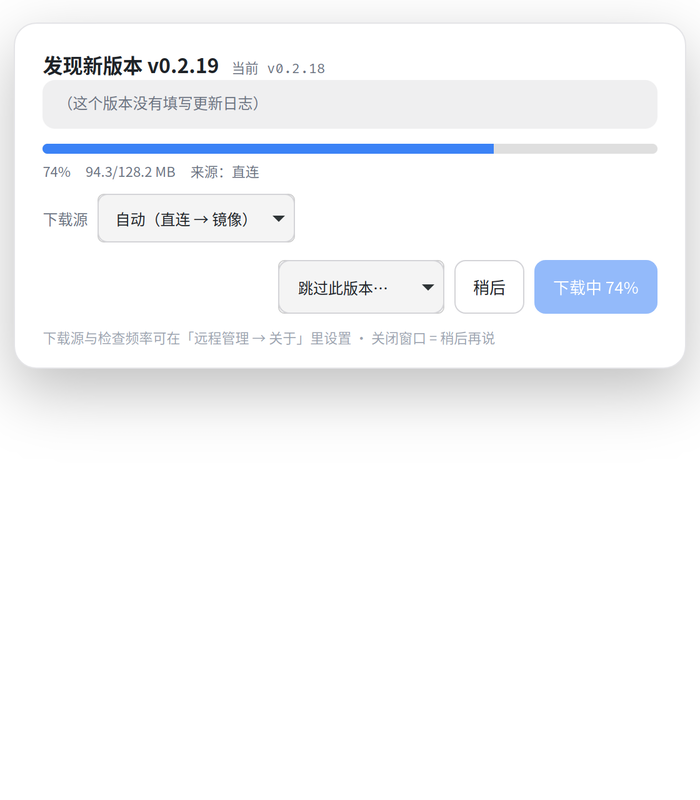
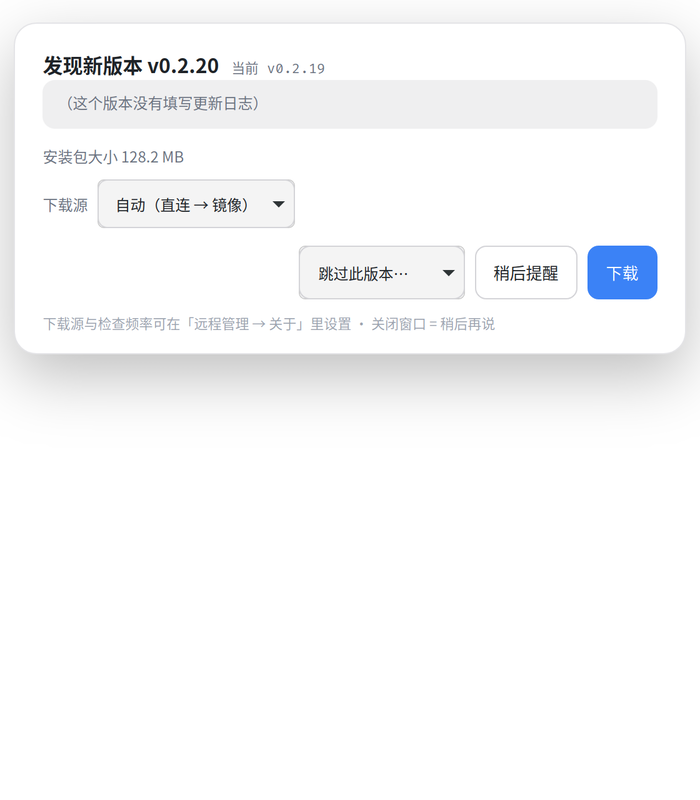
feat(update): 对齐主流更新体验
- 已是最新不再弹窗（update_open_window 增加状态闸；关于页内联显示状态）
- 「稍后提醒」（默认24h，只压自动检查）与「跳过此版本」（1/7/30天/永久）分离
- 弹窗显示安装包大小；新增「发现新版本时自动下载」开关（默认关）
- 自动检查尊重 remind_after；手动检查不受影响
- 版本 0.2.20 五处同步；截图 docs/screenshots/update-popup-pc-available.png

Changed region(s): [[0.03, 0.2812, 0.99, 0.4688], [0.06, 0.1562, 0.93, 0.3125], [0.27, 0.0625, 0.33, 0.0938]]

diff --git a/ui-vue/src/components/update/UpdateDialog.vue b/ui-vue/src/components/update/UpdateDialog.vue
@@ -58,6 +58,10 @@ const bytesText = computed(() => {
 const downloading = computed(() => phase.value === "downloading" || phase.value === "verifying");
 const canInstall = computed(() => phase.value === "ready_to_install" || phase.value === "installing");
 /** 有「新版本」语义的阶段（标题/日志/跳过/下载源只在这些阶段出现） */
+const assetMB = computed(() => {
+  const size = state.value?.total ?? 0;
+  return size ? `${(size / 1048576).toFixed(1)} MB` : "";
+});
 const hasRelease = computed(() =>
   ["available", "downloading", "verifying", "ready_to_install", "installing"].includes(phase.value),
 );
@@ -210,6 +214,7 @@ onMounted(async () => {
       <p v-else class="upd-notes empty">（这个版本没有填写更新日志）</p>
     </template>
 
+    <p v-if="phase === 'available' && assetMB" class="upd-size">安装包大小 <span class="mono">{{ assetMB }}</span></p>
     <div v-if="downloading || canInstall" class="upd-progress">
       <div class="bar"><span :style="{ width: percent + '%' }" /></div>
       <div class="nums">
@@ -257,7 +262,7 @@ onMounted(async () => {
           <option value="30">忽略 30 天</option>
           <option value="0">永久跳过此版本</option>
         </select>
-        <button type="button" class="ghost" @click="close">稍后</button>
+        <button type="button" class="ghost" @click="run('update_remind_later', { hours: 24 }).then(close)">稍后提醒</button>
         <button type="button" class="primary" :disabled="primaryDisabled" @click="onPrimary">
           {{ primaryLabel }}
         </button>
@@ -313,6 +318,7 @@ onMounted(async () => {
   padding: 10px 12px;
 }
 .upd-notes.empty { color: var(--dim, #6b7280); }
+.upd-size { margin: 0 0 10px; color: var(--dim, #6b7280); font-size: 12px; }
 .upd-progress { margin: 0 0 10px; }
 .upd-progress .bar { height: 8px; border-radius: 4px; background: rgba(127, 127, 127, 0.25); overflow: hidden; }
 .upd-progress .bar span { display: block; height: 100%; background: var(--accent, #3b82f6); transition: width 0.12s linear; }

diff --git a/ui-vue/src/pages/hub/AboutPage.vue b/ui-vue/src/pages/hub/AboutPage.vue
@@ -34,6 +34,7 @@ interface UpdateState {
   bytes?: string;
   /** 自动检查开关 */
   autoCheck?: boolean;
+  autoDownload?: boolean;
   /** 下载源 */
   mirror?: string;
   /** 自动检查间隔（小时） */
@@ -91,6 +92,8 @@ const LINK_ITEMS = [
 
 /** 自动检查开关（旧版 #update-auto-check） */
 const autoCheck = ref(true);
+/** 发现新版本时自动后台下载 */
+const autoDownload = ref(false);
 /** 下载源：auto / direct / ghfast / ghproxy / custom（自定义 https 前缀） */
 const KNOWN_MIRRORS = ["auto", "direct", "ghfast", "ghproxy"] as const;
 const mirror = ref<string>("auto");
@@ -118,6 +121,10 @@ watch(
 watch(autoCheck, (value) => {
   if (!optionsReady.value) return;
   void call("set_update_auto_check", { enabled: value }).catch((e) => (updateError.value = String(e)));
+});
+watch(autoDownload, (value) => {
+  if (!optionsReady.value) return;
+  void call("set_update_auto_download", { enabled: value }).catch((e) => (updateError.value = String(e)));
 });
 watch(mirror, (value) => {
   if (!optionsReady.value) return;
@@ -172,6 +179,7 @@ onMounted(async () => {
   try {
     update.value = await call<UpdateState>("update_state");
     autoCheck.value = update.value?.autoCheck ?? true;
+    autoDownload.value = update.value?.autoDownload ?? false;
     const loadedMirror = String(update.value?.mirror ?? "auto");
     if ((KNOWN_MIRRORS as readonly string[]).includes(loadedMirror)) {
       mirror.value = loadedMirror;

diff --git a/ui-vue/src/i18n/messages/ru-RU.ts b/ui-vue/src/i18n/messages/ru-RU.ts
@@ -928,6 +928,7 @@ about: {
   installRestart: "Установить и перезапустить",
   skip: "Пропустить эту версию",
   autoCheck: "Автопроверка (через 30 с после запуска + каждые 12 ч)",
+  autoDownload: "Автозагрузка новых версий",
   checkEvery: "Частота проверки",
   downloadSrc: "Источник загрузки",
   srcCustom: "Свой…",

diff --git a/ui-vue/src/i18n/messages/ja-JP.ts b/ui-vue/src/i18n/messages/ja-JP.ts
@@ -928,6 +928,7 @@ about: {
   installRestart: "インストールして再起動",
   skip: "このバージョンをスキップ",
   autoCheck: "自動確認（起動 30 秒後 + 12 時間ごと）",
+  autoDownload: "新バージョンを自動ダウンロード",
   checkEvery: "確認頻度",
   downloadSrc: "ダウンロード元",
   srcCustom: "カスタム…",

diff --git a/ui-vue/src/i18n/messages/es-ES.ts b/ui-vue/src/i18n/messages/es-ES.ts
@@ -928,6 +928,7 @@ about: {
   installRestart: "Instalar y reiniciar",
   skip: "Omitir esta versión",
   autoCheck: "Comprobación automática (30 s tras iniciar + cada 12 h)",
+  autoDownload: "Descargar nuevas versiones automáticamente",
   checkEvery: "Frecuencia de comprobación",
   downloadSrc: "Origen de descarga",
   srcCustom: "Personalizado…",

diff --git a/ui-vue/src/i18n/messages/pt-BR.ts b/ui-vue/src/i18n/messages/pt-BR.ts
@@ -928,6 +928,7 @@ about: {
   installRestart: "Instalar e reiniciar",
   skip: "Pular esta versão",
   autoCheck: "Verificação automática (30 s após iniciar + a cada 12 h)",
+  autoDownload: "Baixar novas versões automaticamente",
   checkEvery: "Frequência de verificação",
   downloadSrc: "Fonte de download",
   srcCustom: "Personalizado…",

diff --git a/ui-vue/src/i18n/messages/de-DE.ts b/ui-vue/src/i18n/messages/de-DE.ts
@@ -928,6 +928,7 @@ about: {
   installRestart: "Installieren und neu starten",
   skip: "Diese Version überspringen",
   autoCheck: "Auto-Prüfung (30 s nach Start + alle 12 h)",
+  autoDownload: "Neue Versionen automatisch laden",
   checkEvery: "Prüfhäufigkeit",
   downloadSrc: "Download-Quelle",
   srcCustom: "Benutzerdefiniert…",

diff --git a/ui-vue/src/i18n/messages/ko-KR.ts b/ui-vue/src/i18n/messages/ko-KR.ts
@@ -928,6 +928,7 @@ about: {
   installRestart: "설치 후 재시작",
   skip: "이 버전 건너뛰기",
   autoCheck: "자동 확인 (시작 30초 후 + 12시간마다)",
+  autoDownload: "새 버전 자동 다운로드",
   checkEvery: "확인 주기",
   downloadSrc: "다운로드 소스",
   srcCustom: "사용자 지정…",

diff --git a/ui-vue/src/i18n/messages/en-US.ts b/ui-vue/src/i18n/messages/en-US.ts
@@ -928,6 +928,7 @@ about: {
   installRestart: "Install and restart",
   skip: "Skip this version",
   autoCheck: "Auto check (30 s after start, then at the frequency below)",
+  autoDownload: "Auto-download new versions",
   checkEvery: "Check frequency",
   downloadSrc: "Download source",
   srcCustom: "Custom…",

diff --git a/ui-vue/src/i18n/messages/zh-TW.ts b/ui-vue/src/i18n/messages/zh-TW.ts
@@ -928,6 +928,7 @@ about: {
   installRestart: "安裝並重新啟動",
   skip: "跳過這個版本",
   autoCheck: "自動檢查（啟動 30 秒後 + 依下方頻率）",
+  autoDownload: "發現新版本時自動下載",
   checkEvery: "檢查頻率",
   downloadSrc: "下載來源",
   srcCustom: "自訂…",

diff --git a/ui-vue/src/i18n/messages/zh-CN.ts b/ui-vue/src/i18n/messages/zh-CN.ts
@@ -928,6 +928,7 @@ about: {
   installRestart: "安装并重启",
   skip: "跳过这个版本",
   autoCheck: "自动检查（启动 30 秒后 + 按下方频率）",
+  autoDownload: "发现新版本时自动下载",
   checkEvery: "检查频率",
   downloadSrc: "下载源",
   srcCustom: "自定义…",

diff --git a/src-tauri/src/ui_assets.rs b/src-tauri/src/ui_assets.rs
@@ -8,39 +8,39 @@
 
 /// (相对路径, Content-Type, 文件正文)
 pub(crate) const UI_ASSETS: &[(&str, &str, &str)] = &[
-    ("assets/UpdateDialog-BYpQMdh6.css", "text/css; charset=utf-8", include_str!("../../ui-vue/dist/assets/UpdateDialog-BYpQMdh6.css")),
+    ("assets/UpdateDialog-BptW5Ygo.css", "text/css; charset=utf-8", include_str!("../../ui-vue/dist/assets/UpdateDialog-BptW5Ygo.css")),
     ("assets/WindowNavMenu-b7GIYbbS.css", "text/css; charset=utf-8", include_str!("../../ui-vue/dist/assets/WindowNavMenu-b7GIYbbS.css")),
-    ("assets/chunks/AboutPage-DkkuQfOL.js", "text/javascript; charset=utf-8", include_str!("../../ui-vue/dist/assets/chunks/AboutPage-DkkuQfOL.js")),
-    ("assets/chunks/GrubList.vue_vue_type_script_setup_true_lang-CoaOrf_f.js", "text/javascript; charset=utf-8", include_str!("../../ui-vue/dist/assets/chunks/GrubList.vue_vue_type_script_setup_true_lang-CoaOrf_f.js")),
-    ("assets/chunks/LoaderIcon.vue_vue_type_script_setup_true_lang-DLdGiWNG.js", "text/javascript; charset=utf-8", include_str!("../../ui-vue/dist/assets/chunks/LoaderIcon.vue_vue_type_script_setup_true_lang-DLdGiWNG.js")),
-    ("assets/chunks/ThemeA-BI_oFRqn.js", "text/javascript; charset=utf-8", include_str!("../../ui-vue/dist/assets/chunks/ThemeA-BI_oFRqn.js")),
-    ("assets/chunks/ThemeB-FsZx_SkW.js", "text/javascript; charset=utf-8", include_str!("../../ui-vue/dist/assets/chunks/ThemeB-FsZx_SkW.js")),
-    ("assets/chunks/ThemeC-DuiyLtD1.js", "text/javascript; charset=utf-8", include_str!("../../ui-vue/dist/assets/chunks/ThemeC-DuiyLtD1.js")),
-    ("assets/chunks/ThemeG-DOcrtD_q.js", "text/javascript; charset=utf-8", include_str!("../../ui-vue/dist/assets/chunks/ThemeG-DOcrtD_q.js")),
-    ("assets/chunks/ThemeI-DGVPPdqY.js", "text/javascript; charset=utf-8", include_str!("../../ui-vue/dist/assets/chunks/ThemeI-DGVPPdqY.js")),
-    ("assets/chunks/ThemeJ-CJWIjdKg.js", "text/javascript; charset=utf-8", include_str!("../../ui-vue/dist/assets/chunks/ThemeJ-CJWIjdKg.js")),
-    ("assets/chunks/UpdateDialog-Byp7IPf-.js", "text/javascript; charset=utf-8", include_str!("../../ui-vue/dist/assets/chunks/UpdateDialog-Byp7IPf-.js")),
-    ("assets/chunks/WindowNavMenu-308R_lYI.js", "text/javascript; charset=utf-8", include_str!("../../ui-vue/dist/assets/chunks/WindowNavMenu-308R_lYI.js")),
+    ("assets/chunks/AboutPage-C_zKCBSZ.js", "text/javascript; charset=utf-8", include_str!("../../ui-vue/dist/assets/chunks/AboutPage-C_zKCBSZ.js")),
+    ("assets/chunks/GrubList.vue_vue_type_script_setup_true_lang-CS9FOEN4.js", "text/javascript; charset=utf-8", include_str!("../../ui-vue/dist/assets/chunks/GrubList.vue_vue_type_script_setup_true_lang-CS9FOEN4.js")),
+    ("assets/chunks/LoaderIcon.vue_vue_type_script_setup_true_lang-CM0jpiyl.js", "text/javascript; charset=utf-8", include_str!("../../ui-vue/dist/assets/chunks/LoaderIcon.vue_vue_type_script_setup_true_lang-CM0jpiyl.js")),
+    ("assets/chunks/ThemeA-Cll-WmTB.js", "text/javascript; charset=utf-8", include_str!("../../ui-vue/dist/assets/chunks/ThemeA-Cll-WmTB.js")),
+    ("assets/chunks/ThemeB-CDzu15j2.js", "text/javascript; charset=utf-8", include_str!("../../ui-vue/dist/assets/chunks/ThemeB-CDzu15j2.js")),
+    ("assets/chunks/ThemeC-CRsEB_IJ.js", "text/javascript; charset=utf-8", include_str!("../../ui-vue/dist/assets/chunks/ThemeC-CRsEB_IJ.js")),
+    ("assets/chunks/ThemeG-BxJsDLVv.js", "text/javascript; charset=utf-8", include_str!("../../ui-vue/dist/assets/chunks/ThemeG-BxJsDLVv.js")),
+    ("assets/chunks/ThemeI-CoTZKTsT.js", "text/javascript; charset=utf-8", include_str!("../../ui-vue/dist/assets/chunks/ThemeI-CoTZKTsT.js")),
+    ("assets/chunks/ThemeJ-BNRw4vj5.js", "text/javascript; charset=utf-8", include_str!("../../ui-vue/dist/assets/chunks/ThemeJ-BNRw4vj5.js")),
+    ("assets/chunks/UpdateDialog-D9-xzqv2.js", "text/javascript; charset=utf-8", include_str!("../../ui-vue/dist/assets/chunks/UpdateDialog-D9-xzqv2.js")),
+    ("assets/chunks/WindowNavMenu-XsYSY-uC.js", "text/javascript; charset=utf-8", include_str!("../../ui-vue/dist/assets/chunks/WindowNavMenu-XsYSY-uC.js")),
     ("assets/chunks/_plugin-vue_export-helper-BOfOurH5.js", "text/javascript; charset=utf-8", include_str!("../../ui-vue/dist/assets/chunks/_plugin-vue_export-helper-BOfOurH5.js")),
-    ("assets/chunks/app-BIl1ON0B.js", "text/javascript; charset=utf-8", include_str!("../../ui-vue/dist/assets/chunks/app-BIl1ON0B.js")),
-    ("assets/chunks/event-COUCtSOo.js", "text/javascript; charset=utf-8", include_str!("../../ui-vue/dist/assets/chunks/event-COUCtSOo.js")),
-    ("assets/chunks/http-CG3gEan_.js", "text/javascript; charset=utf-8", include_str!("../../ui-vue/dist/assets/chunks/http-CG3gEan_.js")),
-    ("assets/chunks/tauri-B-3-4Cv6.js", "text/javascript; charset=utf-8", include_str!("../../ui-vue/dist/assets/chunks/tauri-B-3-4Cv6.js")),
-    ("assets/chunks/toast-CSfMWcAc.js", "text/javascript; charset=utf-8", include_str!("../../ui-vue/dist/assets/chunks/toast-CSfMWcAc.js")),
+    ("assets/chunks/app-C8pvFYfz.js", "text/javascript; charset=utf-8", include_str!("../../ui-vue/dist/assets/chunks/app-C8pvFYfz.js")),
+    ("assets/chunks/event-B5iPcXrf.js", "text/javascript; charset=utf-8", include_str!("../../ui-vue/dist/assets/chunks/event-B5iPcXrf.js")),
+    ("assets/chunks/http-D7ruxRz5.js", "text/javascript; charset=utf-8", include_str!("../../ui-vue/dist/assets/chunks/http-D7ruxRz5.js")),
+    ("assets/chunks/tauri-DZDOGGo4.js", "text/javascript; charset=utf-8", include_str!("../../ui-vue/dist/assets/chunks/tauri-DZDOGGo4.js")),
+    ("assets/chunks/toast-aLHuQfTo.js", "text/javascript; charset=utf-8", include_str!("../../ui-vue/dist/assets/chunks/toast-aLHuQfTo.js")),
     ("assets/chunks/useEscape-CxH9KG8l.js", "text/javascript; charset=utf-8", include_str!("../../ui-vue/dist/assets/chunks/useEscape-CxH9KG8l.js")),
     ("assets/hub-CXNh5Sqi.css", "text/css; charset=utf-8", include_str!("../../ui-vue/dist/assets/hub-CXNh5Sqi.css")),
-    ("assets/hub-DyL9YLeq.js", "text/javascript; charset=utf-8", include_str!("../../ui-vue/dist/assets/hub-DyL9YLeq.js")),
-    ("assets/hub-backup-DYB8sr6W.js", "text/javascript; charset=utf-8", include_str!("../../ui-vue/dist/assets/hub-backup-DYB8sr6W.js")),
+    ("assets/hub-J_e4fTKV.js", "text/javascript; charset=utf-8", include_str!("../../ui-vue/dist/assets/hub-J_e4fTKV.js")),
+    ("assets/hub-backup-CZK5K5-Y.js", "text/javascript; charset=utf-8", include_str!("../../ui-vue/dist/assets/hub-backup-CZK5K5-Y.js")),
     ("assets/hub-backup-DnIuWeWO.css", "text/css; charset=utf-8", include_str!("../../ui-vue/dist/assets/hub-backup-DnIuWeWO.css")),
-    ("assets/hub-files-CKLuxCkb.js", "text/javascript; charset=utf-8", include_str!("../../ui-vue/dist/assets/hub-files-CKLuxCkb.js")),
+    ("assets/hub-files--15wLH4e.js", "text/javascript; charset=utf-8", include_str!("../../ui-vue/dist/assets/hub-files--15wLH4e.js")),
     ("assets/hub-files-D1h0rv1w.css", "text/css; charset=utf-8", include_str!("../../ui-vue/dist/assets/hub-files-D1h0rv1w.css")),
-    ("assets/hub-keys-BBOvXwJY.js", "text/javascript; charset=utf-8", include_str!("../../ui-vue/dist/assets/hub-keys-BBOvXwJY.js")),
     ("assets/hub-keys-BwuqJAzH.css", "text/css; charset=utf-8", include_str!("../../ui-vue/dist/assets/hub-keys-BwuqJAzH.css")),
+    ("assets/hub-keys-VJWT54l2.js", "text/javascript; charset=utf-8", include_str!("../../ui-vue/dist/assets/hub-keys-VJWT54l2.js")),
+    ("assets/hub-term-B1Wjuutg.js", "text/javascript; charset=utf-8", include_str!("../../ui-vue/dist/assets/hub-term-B1Wjuutg.js")),
     ("assets/hub-term-fyvri2e8.css", "text/css; charset=utf-8", include_str!("../../ui-vue/dist/assets/hub-term-fyvri2e8.css")),
-    ("assets/hub-term-xyK6d8H4.js", "text/javascript; charset=utf-8", include_str!("../../ui-vue/dist/assets/hub-term-xyK6d8H4.js")),
     ("assets/index-BLYvSY_k.css", "text/css; charset=utf-8", include_str!("../../ui-vue/dist/assets/index-BLYvSY_k.css")),
-    ("assets/index-BPlVkg6Z.js", "text/javascript; charset=utf-8", include_str!("../../ui-vue/dist/assets/index-BPlVkg6Z.js")),
-    ("assets/update-J_j_2NYk.js", "text/javascript; charset=utf-8", include_str!("../../ui-vue/dist/assets/update-J_j_2NYk.js")),
+    ("assets/index-DWTVj4Xl.js", "text/javascript; charset=utf-8", include_str!("../../ui-vue/dist/assets/index-DWTVj4Xl.js")),
+    ("assets/update-CgDc3w_G.js", "text/javascript; charset=utf-8", include_str!("../../ui-vue/dist/assets/update-CgDc3w_G.js")),
     ("hub-backup.html", "text/html; charset=utf-8", include_str!("../../ui-vue/dist/hub-backup.html")),
     ("hub-files.html", "text/html; charset=utf-8", include_str!("../../ui-vue/dist/hub-files.html")),
     ("hub-keys.html", "text/html; charset=utf-8", include_str!("../../ui-vue/dist/hub-keys.html")),
